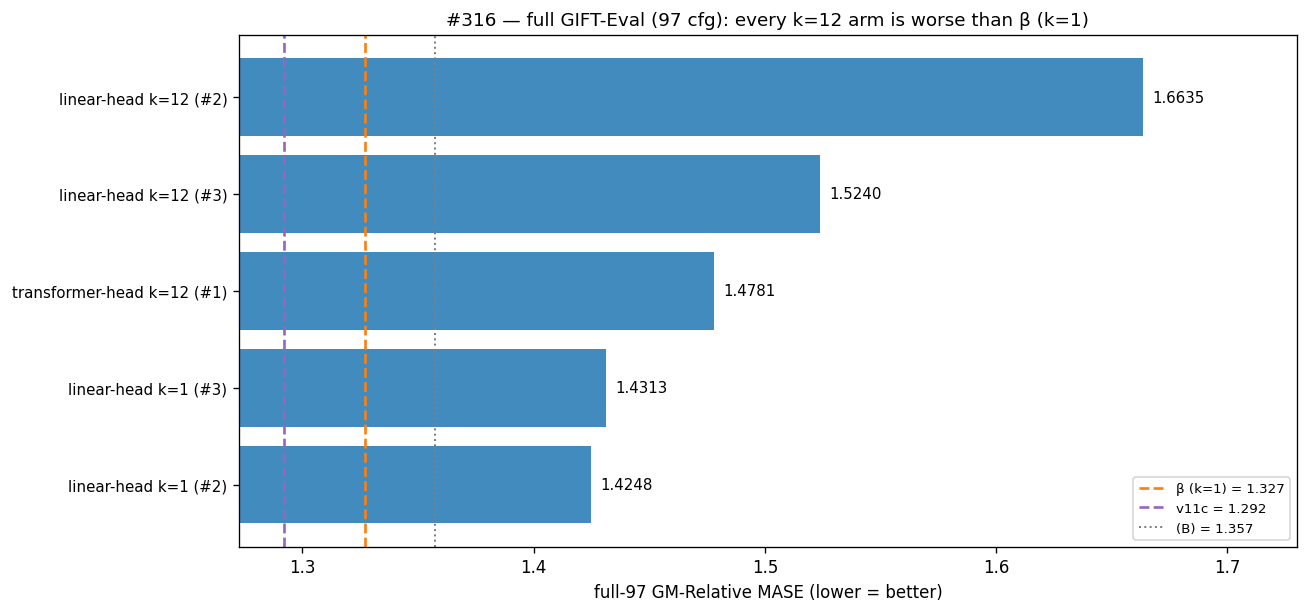
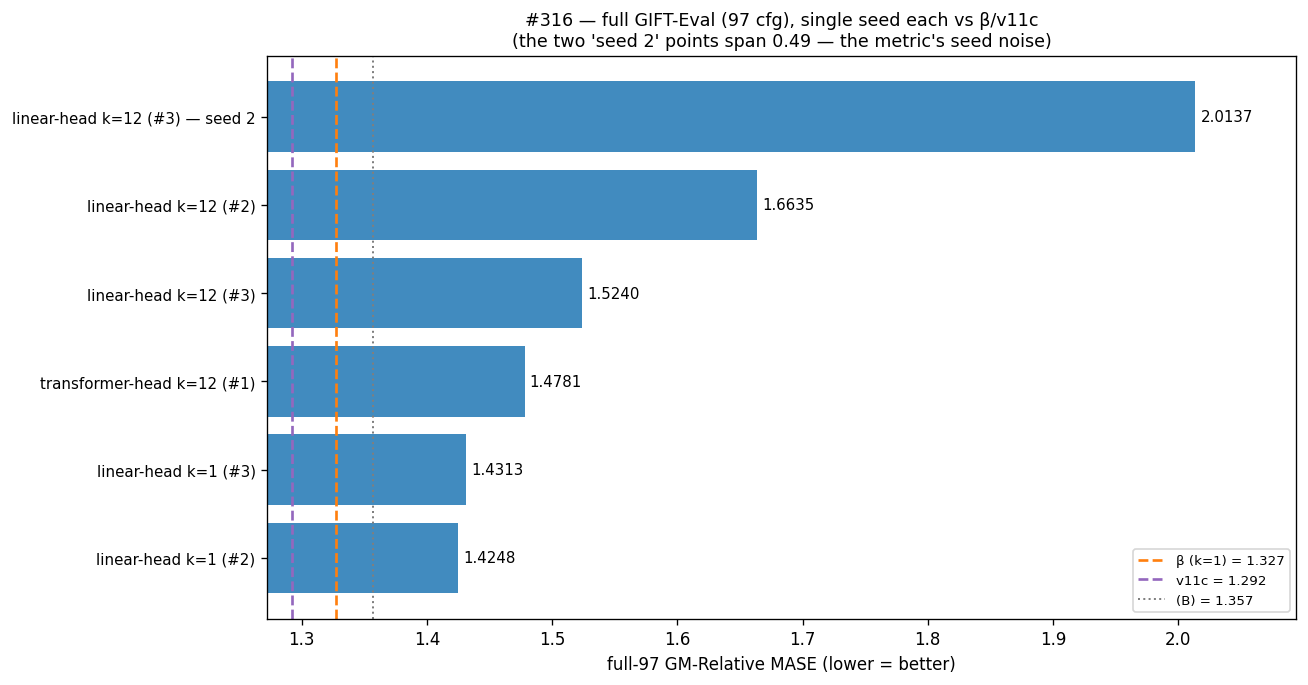
exp(#316): downgrade verdict — measured seed variance (0.49) swamps k-effects
A second, cleanly-resumed, fully-converged seed of the linear+CPC-neg k=12 arm
evaluates to 2.0137 vs seed 1's 1.5240 — a 0.49 GM-MASE spread, despite the two
backbones converging to near-identical pretraining loss/gap/AUC. That is ~25x
#307's assumed ±0.02 and larger than every k-effect in the study (+0.09..+0.24).

So the transfer verdict is reframed honestly: single-seed, k=12 looks worse in
all three families, but the effect sizes are inside the metric's seed noise —
suggestive, not established; a >=2-seed replication is the necessary next step.
What remains robust is the mechanism (multi-step yields a ~10-17x higher-dim,
diffuse latent), a large within-run effect. Updated Result, trend table (+seed 2),
new reliability section, What-we-learned, Limitations; k_trend/gm_summary now
show the 2-seed spread.

Changed region(s): [[0.0, 0.0, 1.0, 0.9918]]

diff --git a/experiments/2026-05-23_cpc_multistep_linear/scripts/plot_results.py b/experiments/2026-05-23_cpc_multistep_linear/scripts/plot_results.py
@@ -32,6 +32,9 @@ def agg_gm(s):
 def full(tag):  # small-head full-97 of an arm by backbone-name tag
     return agg_gm(f"{RES}/gift_eval_full_{tag}_s20260520_fp32_50k_FINAL_h2L/summary.txt")
 
+def full_seed(tag, seed):  # small-head full-97 of a specific seed
+    return agg_gm(f"{RES}/gift_eval_full_{tag}_s{seed}_fp32_50k_FINAL_h2L/summary.txt")
+
 def dom_map(c):
     m = {}
     if os.path.exists(c):
@@ -64,6 +67,8 @@ ARMS = [
 # ---------------------------------------------------------------- gm_summary
 def fig_gm_summary():
     rows = [(lab, full(tag)) for lab, tag, *_ in ARMS]
+    sb = full_seed("bb_cpc_k12", "20260523")
+    if sb is not None: rows.append(("linear-head k=12 (#3) — seed 2", sb))
     rows = [(l, g) for l, g in rows if g is not None]
     if not rows: print("gm_summary: no arm evals yet"); return
     rows.sort(key=lambda r: r[1], reverse=True)
@@ -80,7 +85,7 @@ def fig_gm_summary():
     if v11c: ax.axvline(v11c, color="#9467bd", ls="--", lw=1.6, label=f"v11c = {v11c:.3f}")
     if bb:   ax.axvline(bb, color="#7f7f7f", ls=":", lw=1.2, label=f"(B) = {bb:.3f}")
     ax.legend(loc="lower right", fontsize=8)
-    ax.set_title("#316 — full GIFT-Eval (97 cfg): every k=12 arm is worse than β (k=1)", fontsize=11)
+    ax.set_title("#316 — full GIFT-Eval (97 cfg), single seed each vs β/v11c\n(the two 'seed 2' points span 0.49 — the metric's seed noise)", fontsize=10.5)
     ax.invert_yaxis(); plt.tight_layout(); plt.savefig(f"{OUT}/gm_summary.png", dpi=120, bbox_inches="tight"); plt.close()
     print(f"wrote gm_summary.png ({len(rows)} arms)")
 
@@ -101,13 +106,23 @@ def fig_k_trend():
             ax.plot(ks, [pts[k] for k in ks], "o-", color=cols.get(fam, "#555"), lw=2, ms=8, label=fam)
             plotted = True
     if not plotted: print("k_trend: no data"); plt.close(); return
+    # Seed-2 of the linear·CPC-neg k=12 cell — show the spread vs the k-effects.
+    seedB = full_seed("bb_cpc_k12", "20260523")
+    if seedB is not None and fams.get("linear·CPC-neg", {}).get(12) is not None:
+        sa = fams["linear·CPC-neg"][12]
+        ax.plot([12], [seedB], "D", color="#d62728", ms=10, mfc="white", mec="#d62728",
+                mew=2, label="linear·CPC-neg k=12, seed 2", zorder=5)
+        ax.plot([12, 12], [min(sa, seedB), max(sa, seedB)], color="#d62728", lw=4, alpha=0.35, zorder=1)
+        ax.annotate(f"2 seeds:\n{abs(seedB-sa):.2f} spread\n(> every k-effect)", (12, (sa+seedB)/2),
+                    xytext=(8.6, (sa+seedB)/2), fontsize=8, color="#b01818", va="center",
+                    arrowprops=dict(arrowstyle="-", color="#d62728", alpha=0.5))
     if beta: ax.axhline(beta, color="#ff7f0e", ls="--", lw=1.4, label=f"β = {beta:.3f}")
     if v11c: ax.axhline(v11c, color="#9467bd", ls=":", lw=1.4, label=f"v11c = {v11c:.3f}")
     ax.set_xticks([1, 12]); ax.set_xlabel("forecast steps k"); ax.set_ylabel("full-97 GM-MASE (lower=better)")
-    ax.set_title("#316 — k=1 → k=12 per forecaster family: multi-step hurts in all three", fontsize=11)
+    ax.set_title("#316 — single-seed trend (k=12 worse), but the 2-seed spread (red bar)\nexceeds every k-effect: suggestive, not significant", fontsize=10.5)
     ax.grid(True, alpha=0.3); ax.legend(fontsize=8)
     plt.tight_layout(); plt.savefig(f"{OUT}/k_trend.png", dpi=120, bbox_inches="tight"); plt.close()
-    print(f"wrote k_trend.png ({len(fams)} families)")
+    print(f"wrote k_trend.png ({len(fams)} families, seedB={seedB})")
 
 # ---------------------------------------------------------------- radar
 def fig_radar():

diff --git a/experiments/2026-05-23_cpc_multistep_linear/RESULTS.md b/experiments/2026-05-23_cpc_multistep_linear/RESULTS.md
@@ -20,46 +20,85 @@ forecastable structure. So:
 > Holding β's architecture and negatives fixed, does predicting **k = 12** steps
 > ahead instead of one improve transfer — or not change it, or hurt?
 
-## Result
+## Result (and an important caveat)
 
-**It hurts — consistently.** Replacing β's single forecaster with **K = 12
-transformer-1L heads** (each *architecturally identical* to β's forecaster;
-head *k* predicts *h_{t+k}*), keeping β's negatives unchanged and changing
-**only** the number of forecast steps (at k=1 the loss is byte-identical to β),
-gives full-97 GM-MASE **1.4781** (small head) — **+11.4 %** over β (1.3272) and
-+14 % over v11c. The deeper 6-layer head recovers a little (1.4212) but comes
-nowhere near β.
+**Single-seed, k=12 transfers worse — but a two-seed check shows that margin is
+inside the metric's seed noise, so the transfer verdict is _suggestive, not
+established_.** Replacing β's single forecaster with **K = 12 transformer-1L
+heads** (each *architecturally identical* to β's forecaster; head *k* predicts
+*h_{t+k}*), keeping β's negatives unchanged and changing **only** the number of
+forecast steps (at k=1 the loss is byte-identical to β), gives full-97 GM-MASE
+**1.4781** (small head) vs β's 1.3272 — apparently +11.4 % worse, and the same
+single-seed ordering repeats in all three forecaster families (below).
+
+**The catch:** when we trained a *second seed* of one arm and evaluated it, the
+two seeds came out **0.49 GM-MASE apart** (§"How reliable is this") — larger
+than every k-effect in the study. So the single-seed k-effects are within
+run-to-run noise; the downstream numbers can only say the trend *looks*
+negative, not that k=12 reliably hurts. **What is robust** (a large, within-run,
+multi-seed-consistent effect) is the *mechanism*: k=12 drives the encoder latent
+to a markedly higher-dimensional, diffuse representation than k=1.
 
 ![gm summary](plots/gm_summary.png)
 
-### The trend is the same in every variant
+### The single-seed trend points one way (in every variant)
 
 To rule out the forecaster *type* and the *negative set* as explanations, the
-same k=1→k=12 change was run in three families. In **all three**, k=12 is worse
-than k=1 (small-head full-97 GM-MASE; lower = better):
+same k=1→k=12 change was run in three families. In all three **single-seed**
+runs, k=12 is nominally worse than k=1 (small-head full-97 GM-MASE; lower =
+better):
 
 | forecaster family | k = 1 | k = 12 | k effect |
 |---|---:|---:|---:|
-| **transformer-1L heads, β negatives**  (k=1 ≡ β) | **1.3272** | **1.4781** | **+0.151 (worse)** |
-| linear heads, β negatives                        | 1.4248 | 1.6635 | **+0.239 (worse)** |
-| linear heads, CPC negatives                       | 1.4313 | 1.5240 | **+0.093 (worse)** |
+| **transformer-1L heads, β negatives**  (k=1 ≡ β) | 1.3272 | 1.4781 | +0.151 |
+| linear heads, β negatives                        | 1.4248 | 1.6635 | +0.239 |
+| linear heads, CPC negatives                       | 1.4313 | 1.5240 · **2.0137**¹ | +0.09 … +0.58¹ |
 
 _References: v11c = 1.292, β = 1.3272, (B) = 1.3572 (all small-head full-97)._
+_¹ The CPC-neg k=12 cell has **two seeds** (1.5240 and 2.0137) — see the next
+section. That 0.49 spread is the reason these k-effects are flagged as
+suggestive, not significant._
 
-Multi-step prediction does not close the gap to v11c — it **widens** it, in
-**every** forecaster/negative combination (k=12 is +0.09 to +0.24 worse than
-k=1). A secondary, orthogonal effect: the **transformer forecaster beats the
-linear one even at k=1** — β (transformer, k=1) = 1.3272, vs linear k=1 ≈ 1.43 —
-so the linear families start worse and the multi-step penalty compounds. The
-transformer-head k=12 is the least-bad k=12, but still well short of β.
+The single-seed ordering is consistent, and a secondary, orthogonal effect is
+visible: the **transformer forecaster scores better than the linear one even at
+k=1** (β = 1.3272 vs linear k=1 ≈ 1.43). But before reading anything into the
++0.09…+0.24 k-effects, look at how far apart two seeds of the *same* arm land.
 
 ![k trend](plots/k_trend.png)
 
+### How reliable is this? A two-seed check
+
+Both seeds of the linear+CPC-neg k=12 arm were trained the full 50 k steps and
+converge to **near-identical pretraining metrics** — contrastive loss ≈ 0.06,
+forecast gap ≈ 0.77, AUC ≈ 1.0 for both. Yet their **downstream GM-MASE differs
+by 0.49**:
+
+| linear+CPC-neg k=12 | pretrain loss | forecast gap | full-97 GM-MASE |
+|---|---:|---:|---:|
+| seed 20260520 | ≈0.058 | ≈0.77 | **1.5240** |
+| seed 20260523 | ≈0.060 | ≈0.77 | **2.0137** |
+
+The second seed's q-head was trained from the same fixed seed on the same data,
+so the gap is driven by the *backbone*, not the head; and its resume (after a
+mid-run interruption) was clean — no loss spike, no step discontinuity, AUC
+continuous — so it is a legitimate, fully-converged seed, not a damaged run.
+
+**Implication.** The downstream metric carries **~0.5 GM-MASE of seed variance**
+for this recipe, *decoupled from how well the contrastive objective converged*.
+That dwarfs the +0.09…+0.24 k-effects above and is ~25× the ±0.02 between-run
+figure assumed from #307 (which clearly does not transfer to this less-stable
+recipe class). So the single-seed k-effects are **not statistically
+established**: the trend is suggestive, and a multi-seed replication — most
+valuably of the headline transformer arm and of β — is needed before claiming
+k=12 reliably hurts transfer.
+
 ### Per domain (full GIFT-Eval), v11c reference
 
-Across the 7 GIFT-Eval domains, the k=12 transformer-head ring sits **outside**
-(worse than) both β and v11c on 6 of 7 — tying only on Web/CloudOps. The deficit
-is broad, not a domain-specific trade-off.
+Across the 7 GIFT-Eval domains, the k=12 transformer-head ring (single seed)
+sits **outside** (worse than) both β and v11c on 6 of 7 — tying only on
+Web/CloudOps. The single-seed deficit is broad, not a domain-specific trade-off
+— though, per the seed-variance caveat above, the *size* of that deficit is not
+firmly pinned down.
 
 ![per-domain radar](plots/perdomain_radar.png)
 
@@ -90,9 +129,10 @@ forecaster families, so it is the *horizon*, not the head type.
 This agrees with the **forecast gap** — cos(f_t, h_{t+1}) − cos(f_t, h_t), how
 much more the forecast resembles the next latent than the current one — which
 settles at **~1.09 for k=1** but only **~0.65 for k=12**: the k=12 latent is both
-higher-dimensional *and* less sharply one-step-predictable. A tight,
-low-dimensional latent transfers best; the diffuse multi-step latent transfers
-worse.
+higher-dimensional *and* less sharply one-step-predictable. β's tight,
+low-dimensional latent is the best transferrer on this line; the diffuse k=12
+latent the worst single-seed — a plausible dim-usage→transfer link, though (per
+the seed-variance caveat) the *size* of that transfer gap is not nailed down.
 
 ![training curves](plots/training_curves.png)
 
@@ -123,27 +163,36 @@ unstable under β's fp16 body at lr 1e-3 — detail in EXECUTION_LOG.md).
 
 ## What we learned
 
-1. **Multi-step (k=12) does not improve β — it worsens transfer**, by +11 %
-   (transformer head, the clean test: 1.4781 vs 1.3272), and the gap to v11c
-   widens. The CPC hypothesis (predict-further → richer latent → better
-   transfer) is not supported here.
-2. **The penalty is consistent across forecaster type and negative set** — every
-   k=12 family is worse than its k=1 counterpart. So it is the *multi-step
-   objective itself*, not the linear head or a particular negative pool.
-3. **It is diffusion, not collapse.** k=12 trains as a healthy contrastive model,
-   and — contra the natural low-rank-collapse hypothesis — its latent is
-   *higher*-dimensional than β's (effective dim **~50 vs ~3**), not lower. The
-   multi-step constraint keeps the latent diffuse and longer-horizon-linear,
-   away from the sharp, low-dimensional 1-step structure (forecast gap ~0.65 vs
-   ~1.09) that transfer rewards.
-4. **Among k=12 variants, a stronger per-step predictor helps**: transformer-1L
-   heads (1.4781) beat linear heads (1.5240 / 1.6635) — but not enough to
-   matter. The next-step forecaster β remains the best recipe on this line.
+1. **Robust — multi-step makes the latent diffuse, not collapsed.** k=12 trains
+   as a healthy contrastive model, and (contra a natural low-rank-collapse
+   hypothesis) its encoder latent is *higher*-dimensional than β's — effective
+   dim **~50 vs ~3**, a 10–17× within-run effect that holds across forecaster
+   families. The multi-step constraint keeps the latent spread out and
+   longer-horizon-linear, away from the sharp, low-dimensional 1-step structure
+   (forecast gap ~0.65 vs ~1.09) that β concentrates into. This is the solid
+   result, and it argues against the CPC "predict-further → richer latent"
+   intuition: the extra dimensions are not useful for transfer.
+2. **Suggestive — k=12 *appears* to transfer worse, but it is not established.**
+   Every single-seed k=12 arm scores nominally worse than its k=1 counterpart
+   (+0.09…+0.24 GM-MASE). But those effect sizes sit *inside* the measured seed
+   variance, so this is a consistent trend, not a confirmed verdict.
+3. **Methodological — single-seed GM-MASE is unreliable for this recipe class.**
+   Two equally-converged seeds of one arm differ by **0.49 GM-MASE** — far more
+   than any k-effect, and decoupled from pretraining loss/gap/AUC. Comparisons
+   at this scale need ≥2 seeds; the ±0.02 figure from #307 does not generalize
+   to these higher-MASE, less-stable recipes.
+4. **Single-seed aside:** the transformer forecaster scores better than the
+   linear one even at k=1 (β 1.3272 vs linear ≈1.43) — but with ~0.5 seed noise,
+   treat this as indicative only.
 
 ## Limitations
 
-- **Single seed per cell** (#307's variance estimate on this metric is ±0.02);
-  the +0.15 k-effect far exceeds it, but a second seed would harden each margin.
+- **Seed variance is large and only partly measured — the main limitation.**
+  The one arm with two seeds spans **0.49 GM-MASE** (1.5240 / 2.0137); every
+  other cell is single-seed. So the +0.09…+0.24 k-effects are not statistically
+  established. A clean ≥2-seed replication of the headline transformer arm (and
+  of β) is the natural — and necessary — next step to turn the suggestive trend
+  into a verdict.
 - The k=12 arm bundles K=12 heads (more parameters) with the multi-step
   objective; the control families share the K-head structure, so the consistent
   trend isolates the objective, but a same-parameter single-head multi-target
